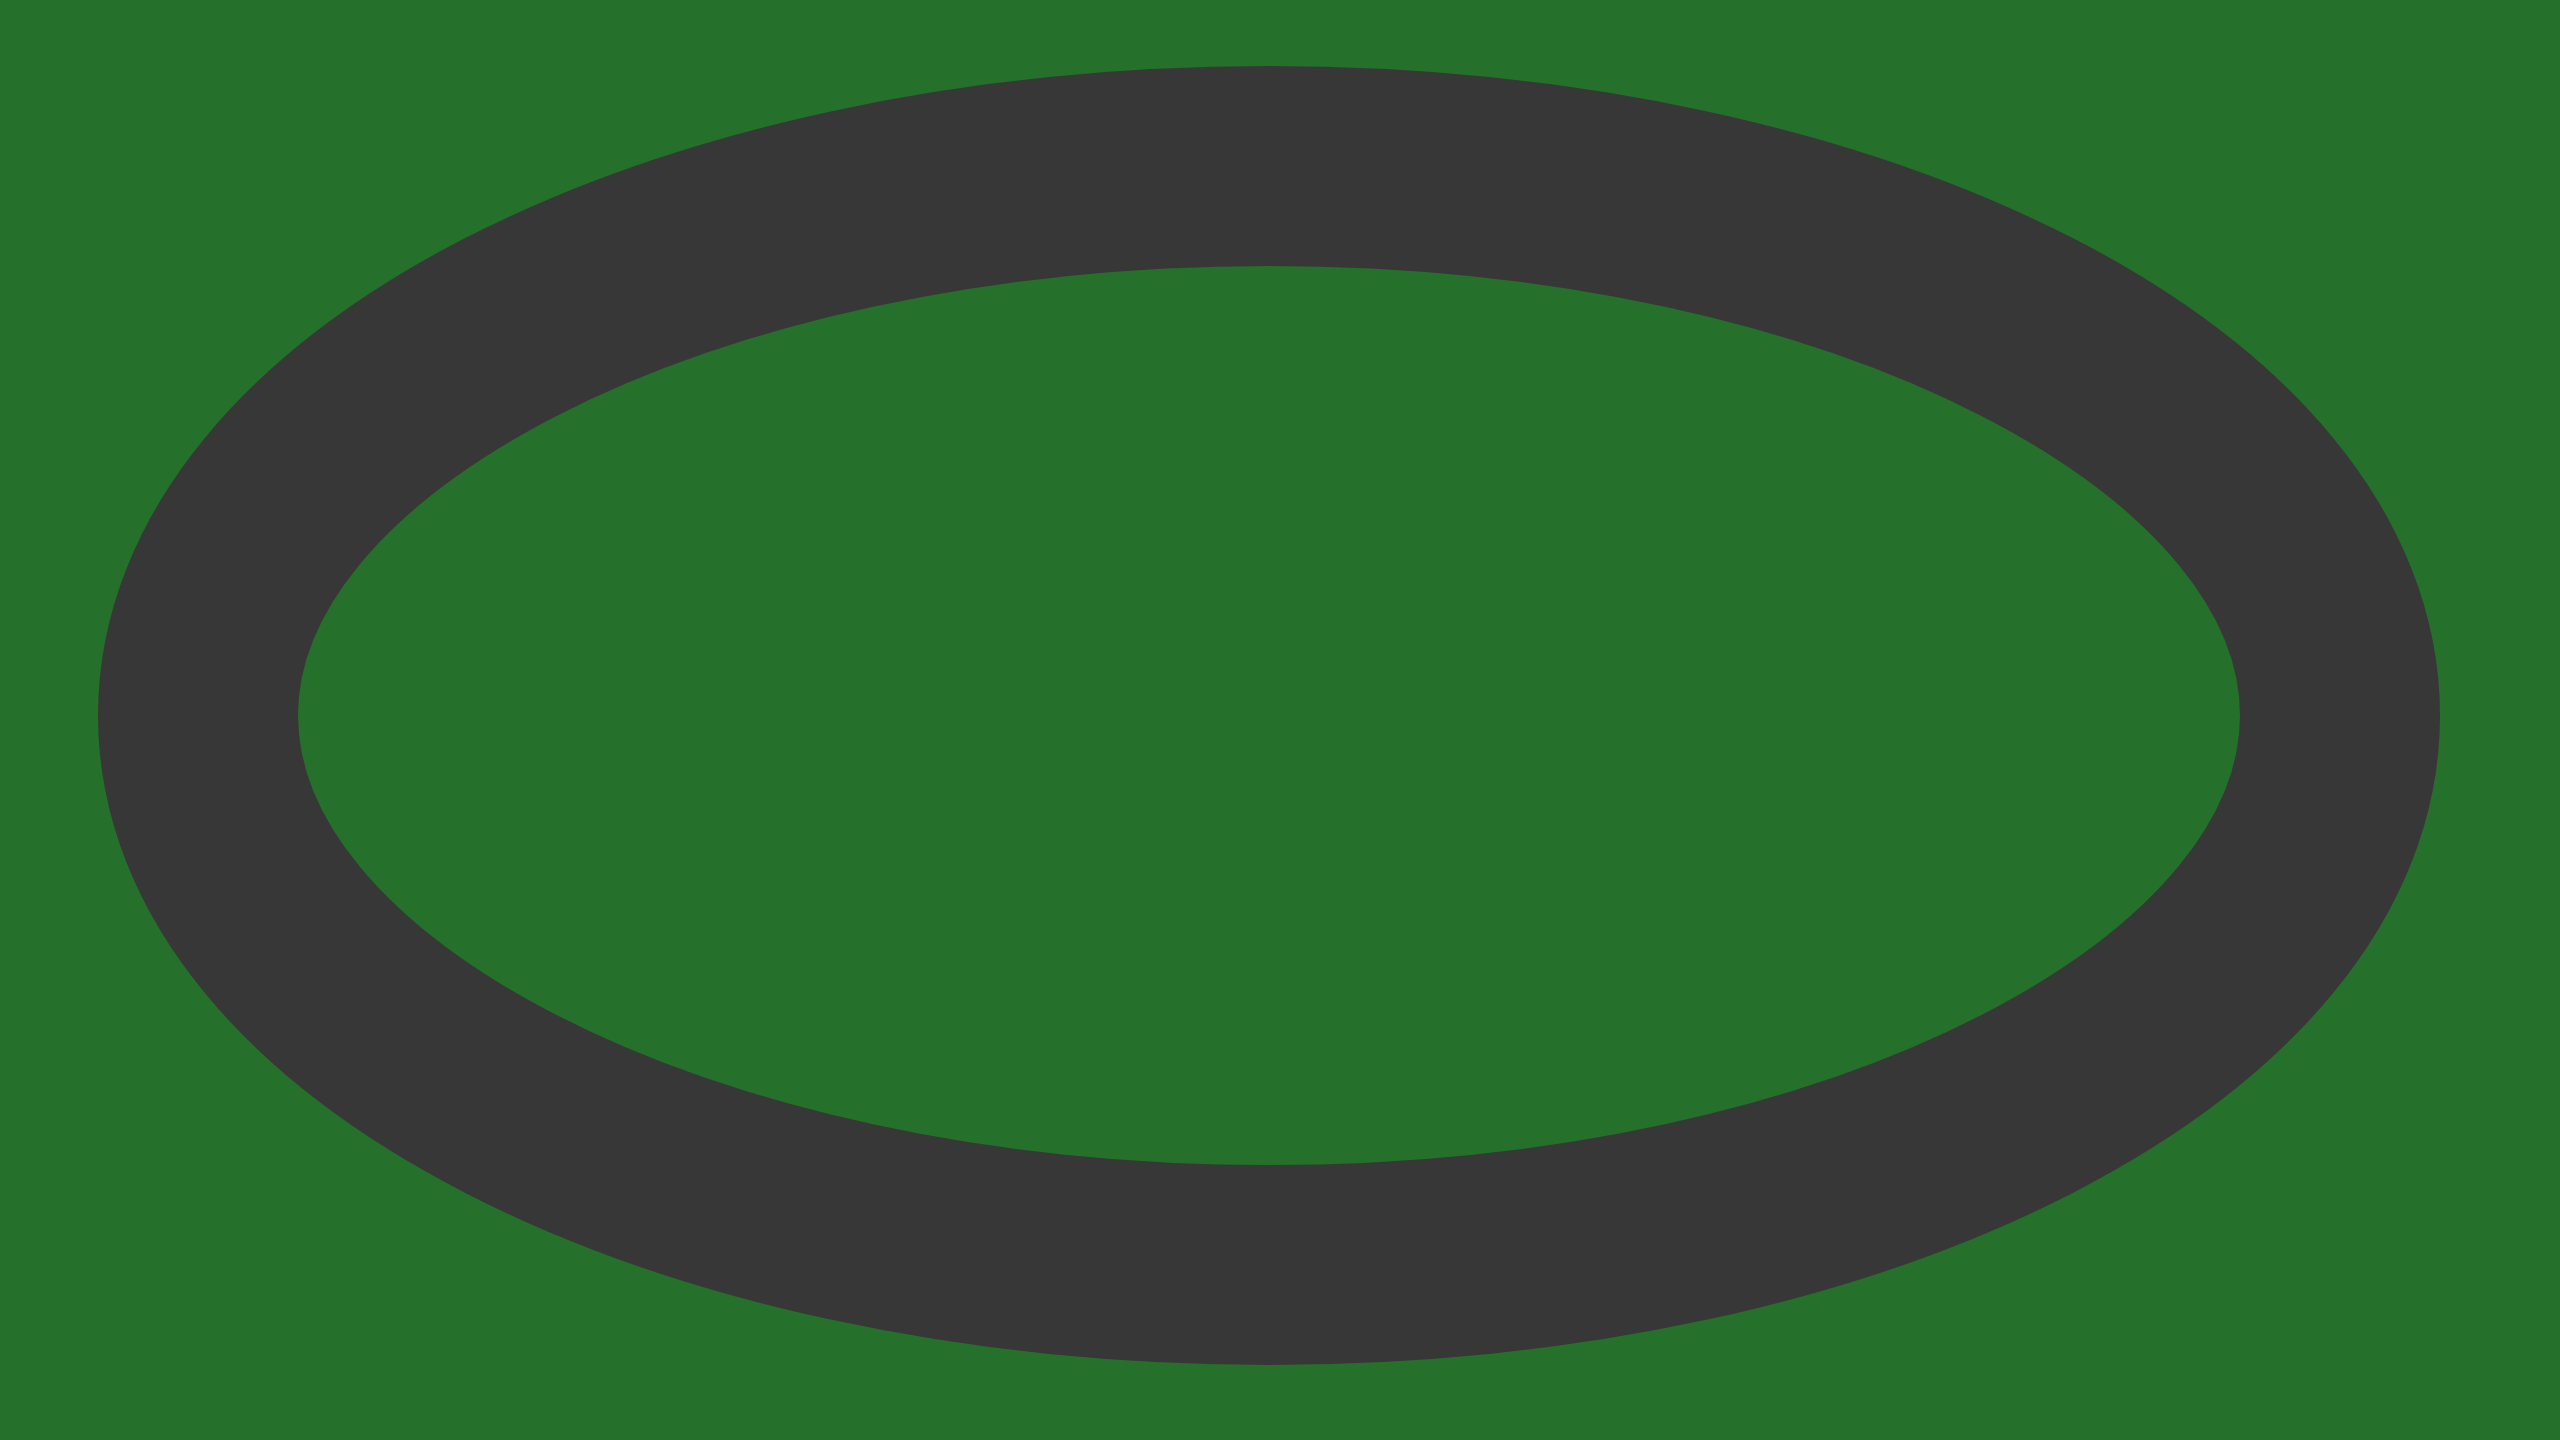
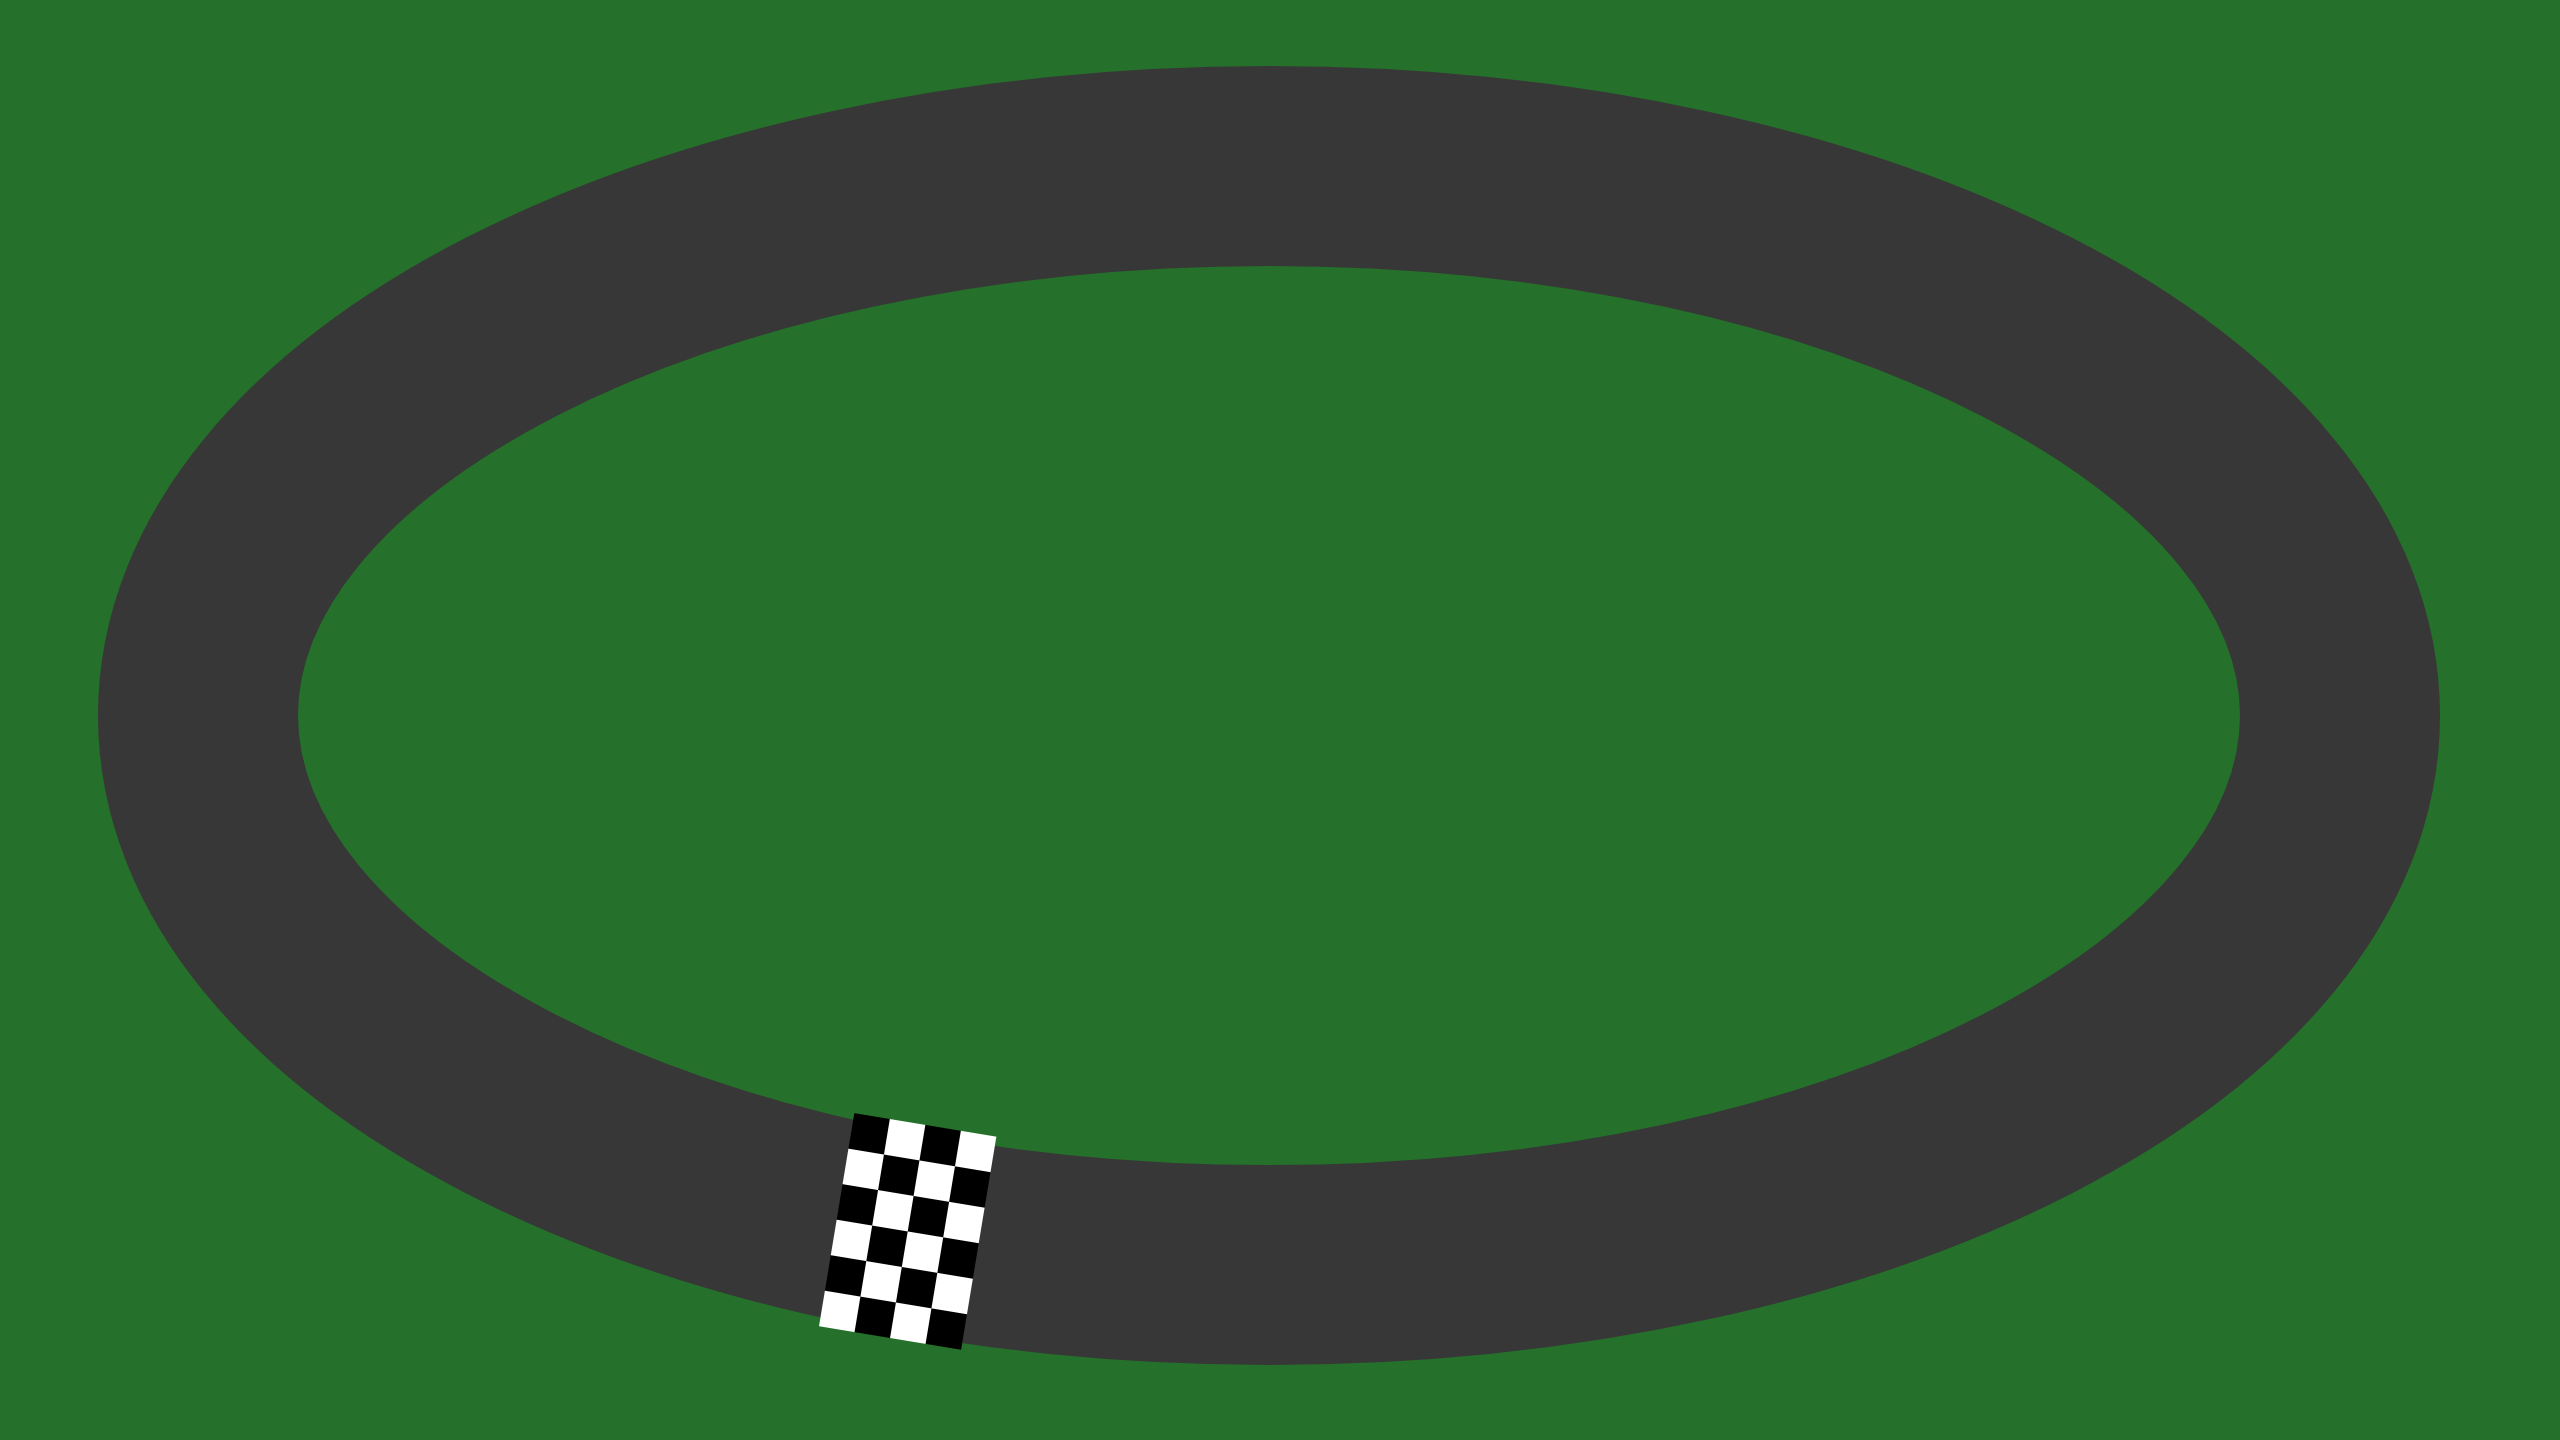
Changed the circuit image to include the finish line and changed its location in the configuration

Changed region(s): [[0.3125, 0.7812, 0.4062, 0.9375]]

diff --git a/simulation.py b/simulation.py
@@ -49,7 +49,7 @@ class Simulation:
         text_rect.center = (900, 620)
         screen.blit(text, text_rect)
 
-        pygame.draw.rect(screen, (255, 255, 0), finish)
+        #pygame.draw.rect(screen, (255, 255, 0), finish)
 
         pygame.display.flip()
         clock.tick(60) 

diff --git a/main.py b/main.py
@@ -15,7 +15,7 @@ car_angle_change = 5
  
 generation_time_limit = 30 * 1000 # in milliseconds
 
-finish_x = 1000
+finish_x = 875
 finish_y = 1100
 
 car_image_path = "car.png"
